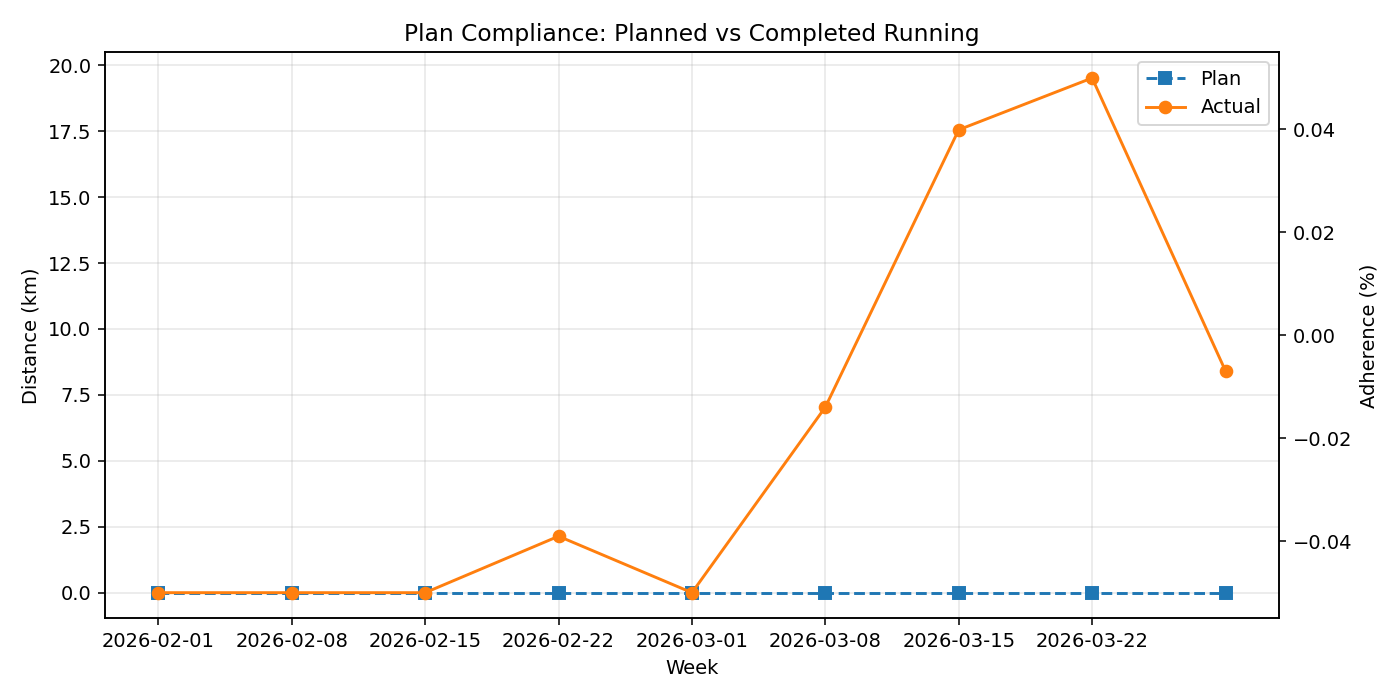
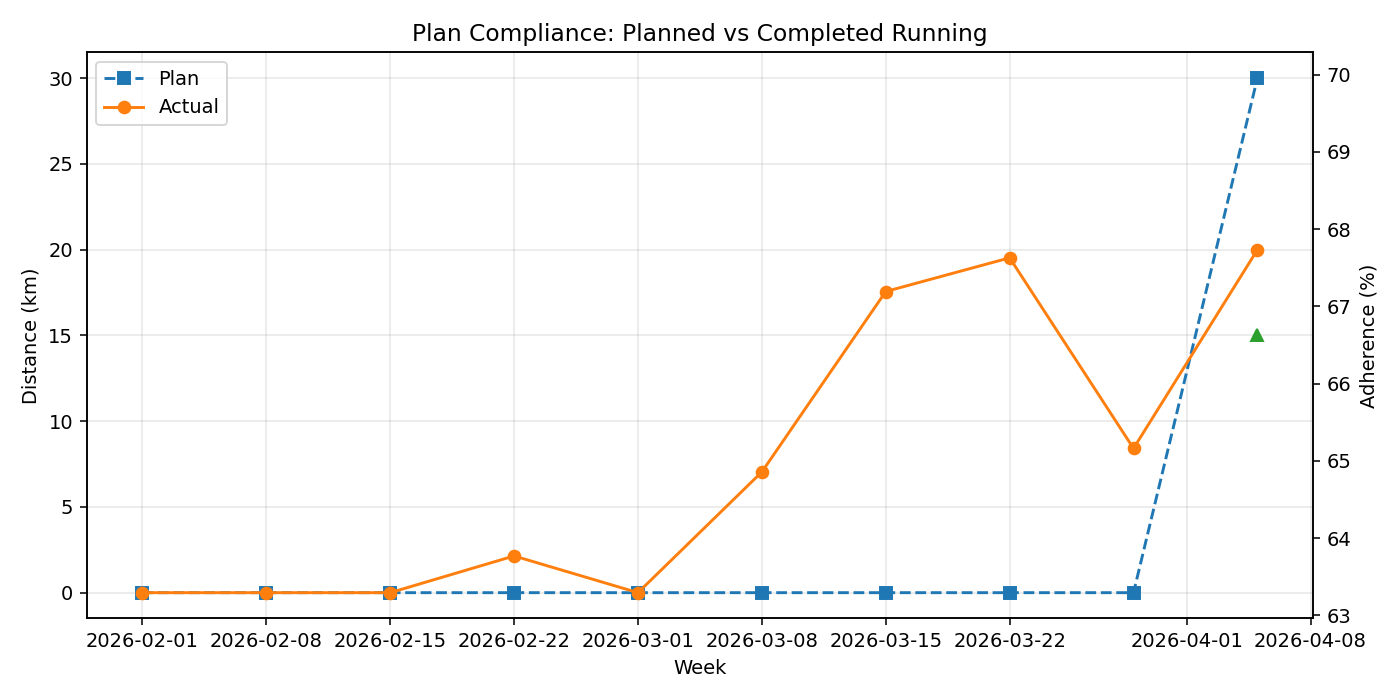
chore: update dashboard site (2026-04-06 08:00)

diff --git a/docs/data/report.md b/docs/data/report.md
@@ -1,30 +1,30 @@
 # Plan-aware Hybrid Marathon Analysis
-Window: 2026-02-01 -> 2026-04-02
+Window: 2026-02-01 -> 2026-04-06
 
 ## This Week
-- Plan week: nan
-- Phase: nan
-- Planned sessions: 0
-- Completed sessions: 1
-- Running km vs target: 8.4 / 0.0
+- Plan week: 1.0
+- Phase: Base con fútbol
+- Planned sessions: 3
+- Completed sessions: 2
+- Running km vs target: 20.0 / 30.0
 - Long run status: pending
-- Football status: not_expected
-- Plan compliance score: 100.0
+- Football status: estimated
+- Plan compliance score: 72.8
 
 ## Running Progression
-- Rolling 7d running km: 0.0
-- Rolling 28d running km: 52.5195
-- Run frequency last 7/14/28: 0/1/7
-- Easy pace trend (negative faster): 0.13077241454247532
-- Pace/HR efficiency trend: -3.011444690132413e-05
+- Rolling 7d running km: 19.9872
+- Rolling 28d running km: 57.974000000000004
+- Run frequency last 7/14/28: 2/2/7
+- Easy pace trend (negative faster): 0.14840499539921784
+- Pace/HR efficiency trend: -0.0005695525775211873
 
 ## Durability
-- Consecutive weeks with 2+ runs: 0
+- Consecutive weeks with 2+ runs: 1
 - Consecutive weeks with long run completed: 0
-- Long-run progression slope: 1.4923133333333327
-- Planned volume absorbed: None
-- Planned long runs completed: None
-- Weeks football likely forced downscale: 0
+- Long-run progression slope: 1.4089818181818181
+- Planned volume absorbed: 248.82533333333336
+- Planned long runs completed: 0.0
+- Weeks football likely forced downscale: 1
 
 ## Football Interference
 - Status: ok
@@ -33,28 +33,28 @@ Window: 2026-02-01 -> 2026-04-02
 - 72h pace delta: 0.05160130115490106
 
 ## Predictions
-- Next-week volume completion probability: 0.75
-- Next long-run completion probability: 0.27
-- Next quality completion probability: 0.68
-- Downscale probability: 0.70
+- Next-week volume completion probability: 0.71
+- Next long-run completion probability: 0.26
+- Next quality completion probability: 0.66
+- Downscale probability: 0.75
 
 ## Readiness
 - Aerobic fitness: declining
 - Durability: insufficient
-- Fatigue: low
+- Fatigue: high
 - Marathon readiness: strong
 
 ## Marathon Estimate
 - Fitness-based: 03:58:13
-- Durability-adjusted: 04:01:08
-- Realistic range: 03:45:01 to 03:59:34
+- Durability-adjusted: 04:22:53
+- Realistic range: 03:44:39 to 04:10:30
 - Confidence score: 98.0/100
 
 ## Pace Recommendations
-- Easy: 5.03-5.38 min/km
-- Steady: 4.68-4.88 min/km
-- Marathon pace: 5.60-5.75 min/km
-- Threshold: 5.30-5.45 min/km
+- Easy: 5.21-5.56 min/km
+- Steady: 4.86-5.06 min/km
+- Marathon pace: 5.75-5.90 min/km
+- Threshold: 5.45-5.60 min/km
 
 ## Confidence Notes
 - Confidence is stable: recent running and football data coverage are adequate.
